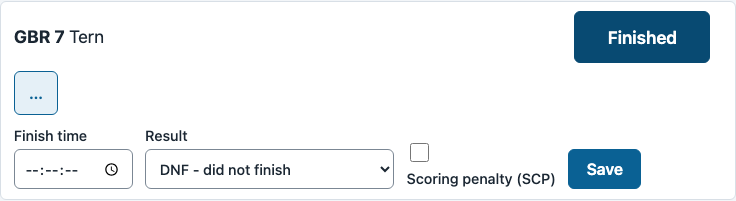
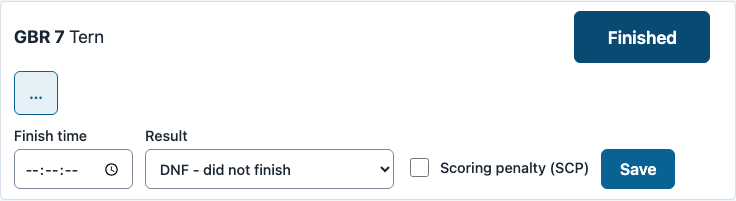
Race day form: put the scoring penalty tick beside its label

Changed region(s): [[0.5312, 0.7164, 0.9375, 0.9552], [0.5625, 0.7761, 0.5938, 0.806], [0.5625, 0.6866, 0.5938, 0.7164]]

diff --git a/templates/races/_finish_form.html b/templates/races/_finish_form.html
@@ -7,7 +7,7 @@ JavaScript; it opens by itself when the save was refused, to show why.{% endcomm
         hx-sync="#finish-panel:replace" id="finish-{{ row.entry.pk }}">{% csrf_token %}
     <label>Finish time {{ row.form.finish_time }}</label>
     <label>Result {{ row.form.status }}</label>
-    <label>{{ row.form.scoring_penalty }} Scoring penalty (SCP)</label>
+    <label class="tick">{{ row.form.scoring_penalty }} Scoring penalty (SCP)</label>
     {# Only a saved finish can be corrected, so only it asks for a reason. #}
     {% if row.form.instance.pk %}<label>Reason {{ row.form.reason }}</label>{% endif %}
     <button type="submit">Save</button>

diff --git a/static/css/site.css b/static/css/site.css
@@ -348,6 +348,8 @@ details.finish-form form {
   display: flex; flex-wrap: wrap; gap: 0.5rem 0.75rem; align-items: flex-end; margin-top: 0.6rem;
 }
 details.finish-form label { display: flex; flex-direction: column; gap: 0.2rem; font-size: 0.9rem; }
+/* A tick box and its words on one line, at a tappable height. */
+details.finish-form label.tick { flex-direction: row; align-items: center; gap: 0.5rem; min-height: var(--tap); }
 details.finish-form .figures { flex-basis: 100%; }
 
 @media (max-width: 40rem) {
